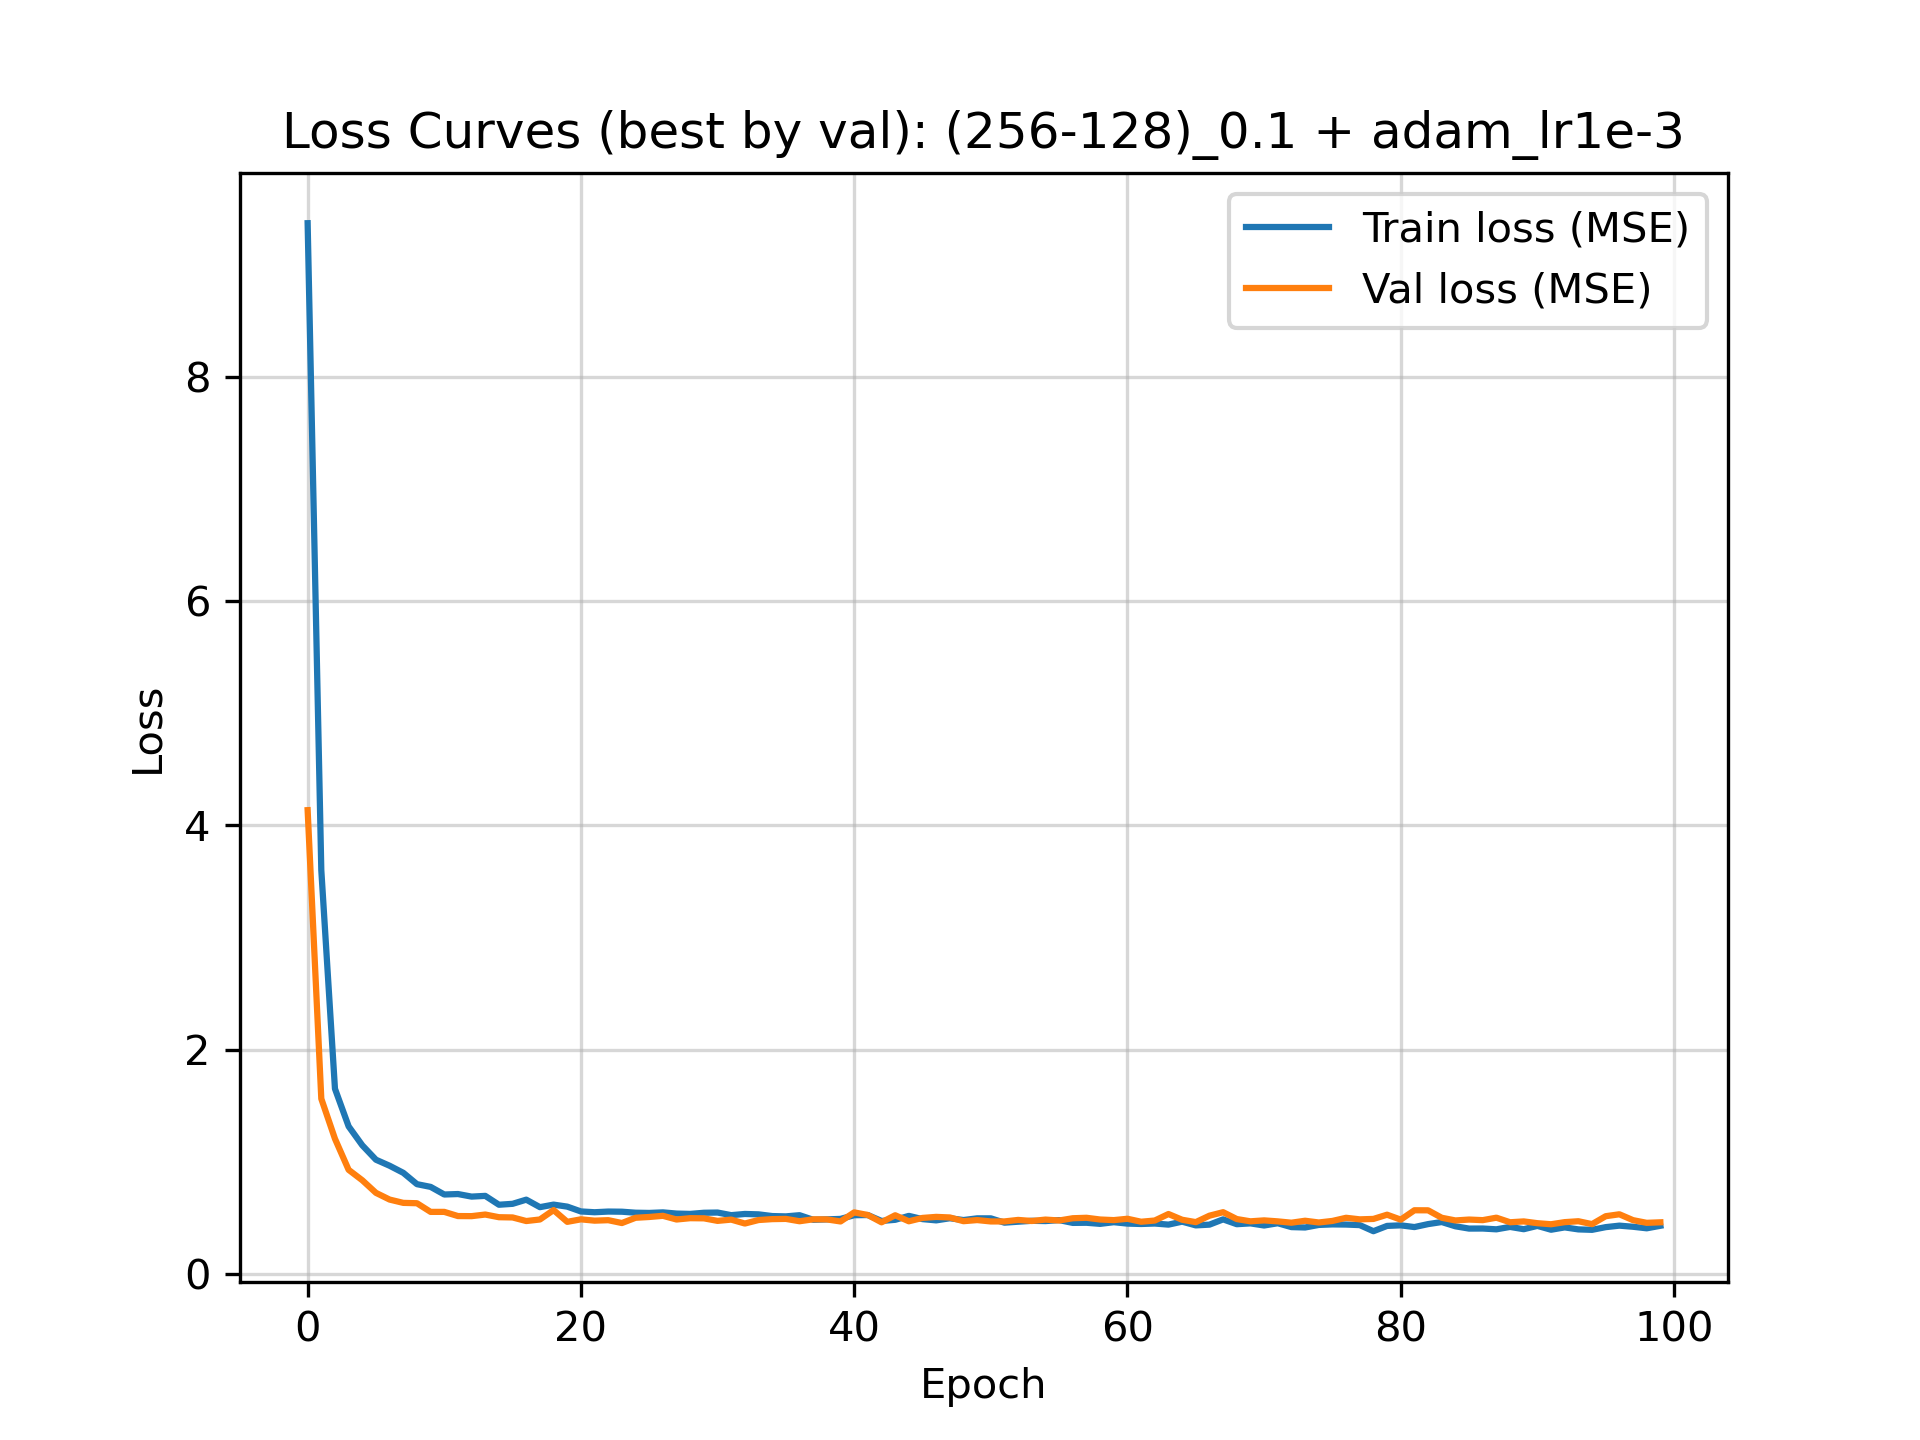
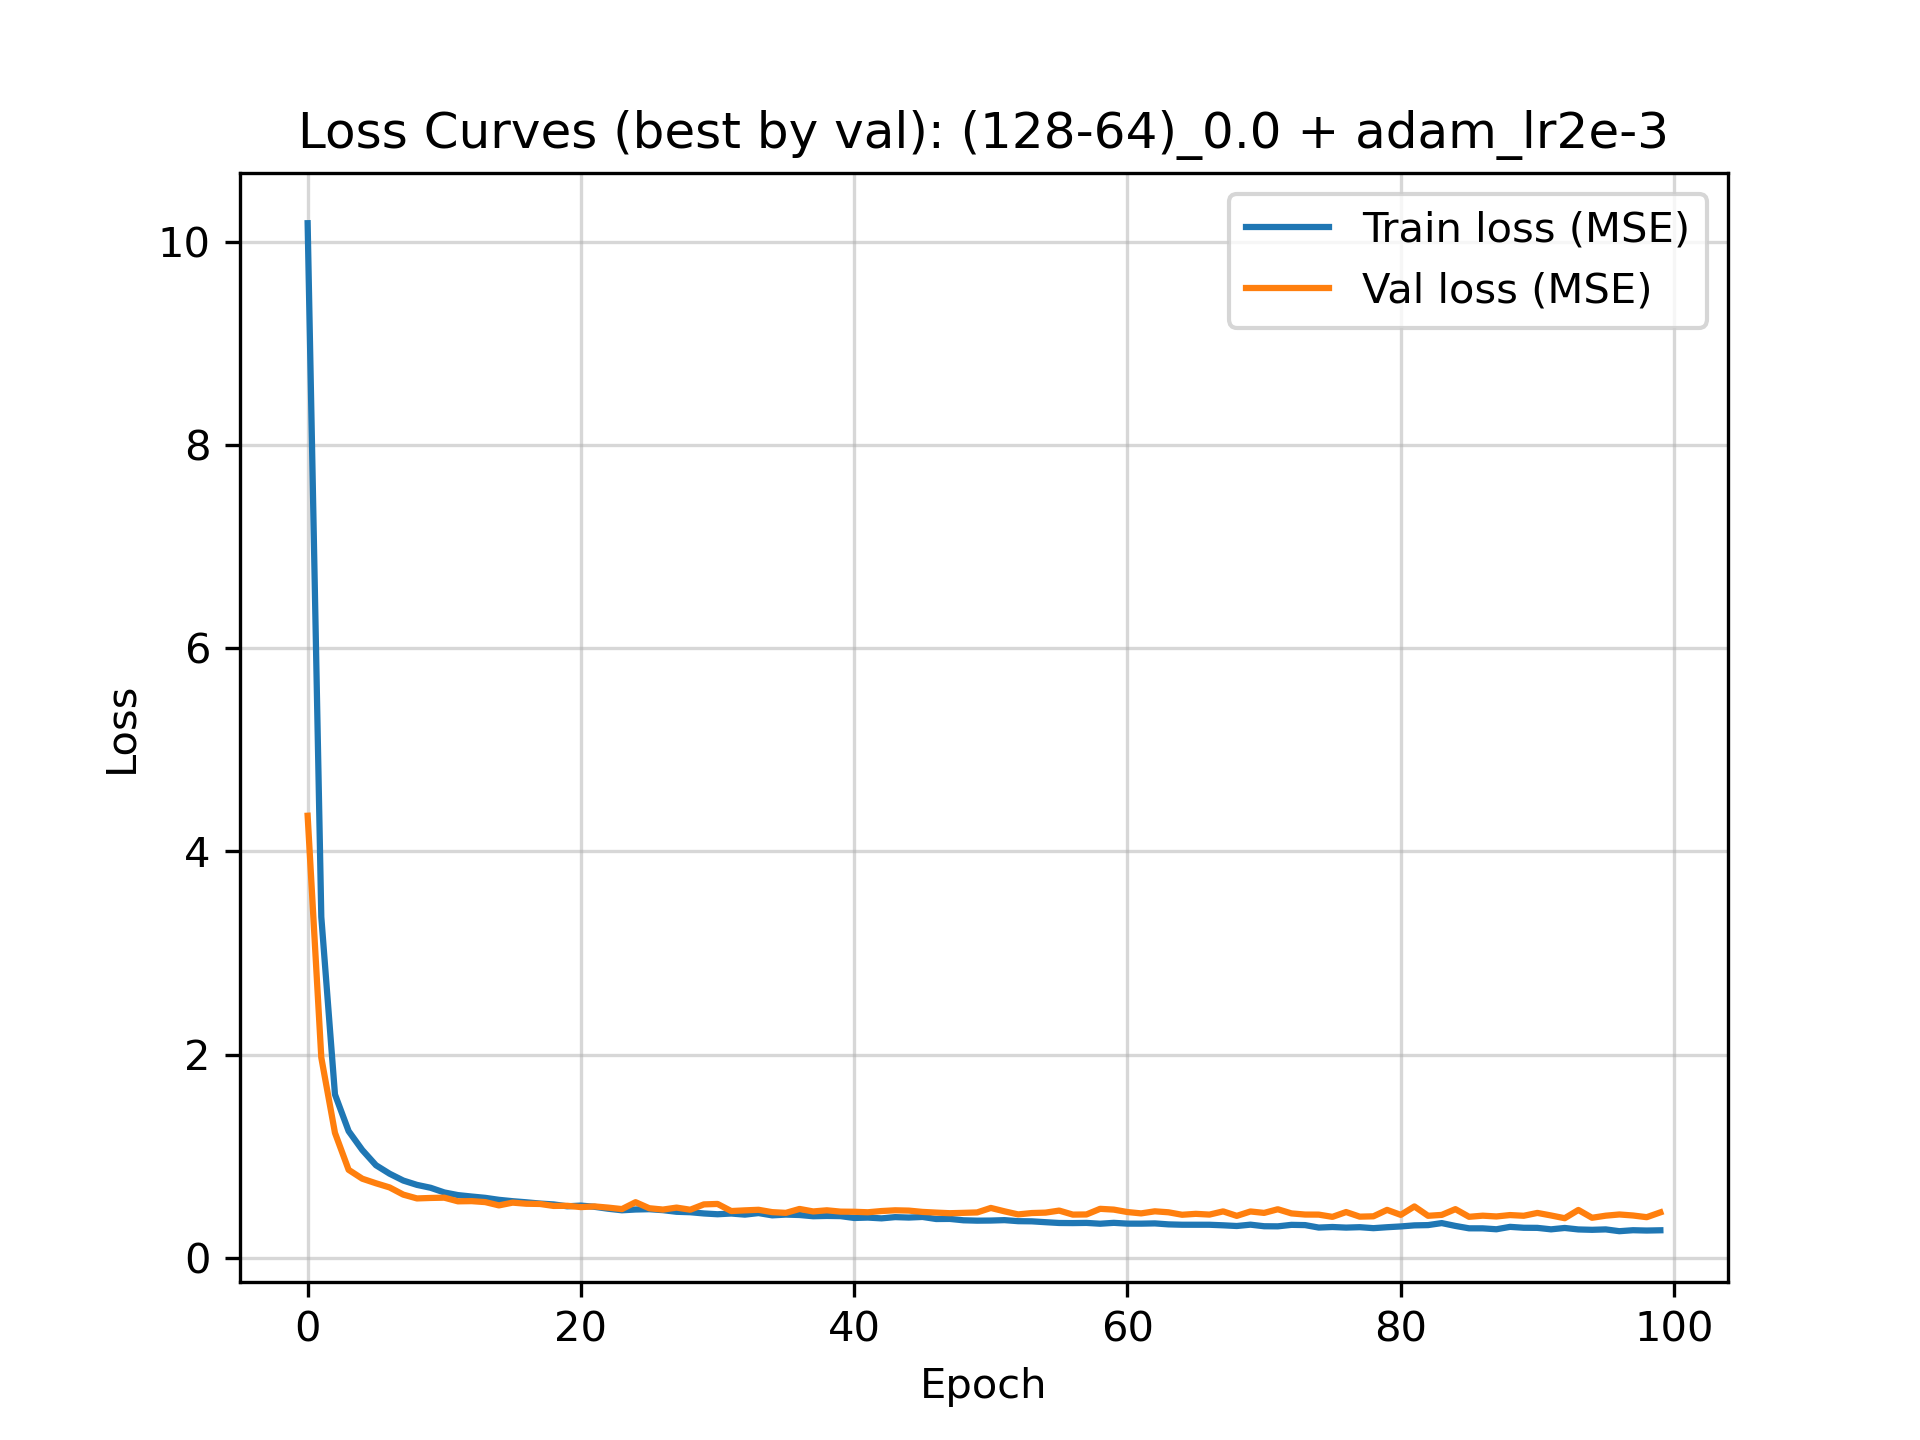
fixed logic -- use best val_test model for fairness

diff --git a/wk5/05_descriptor_scaling.py b/wk5/05_descriptor_scaling.py
@@ -154,6 +154,12 @@ print(f'Best test RMSE: {test_rmse:.3f}')
 #####
 
 model_configs = [
+    ('(32-16)_0.0', (32, 16), 0.0),
+    ('(64-32)_0.0', (64, 32), 0.0),
+    ('(128-64)_0.0', (128, 64), 0.0),
+    ('(64-32-16)_0.0', (64, 32, 16), 0.0),
+    ('(256-128)_0.0', (256, 128), 0.0),
+    ('(64-32-16-8)_0.0', (64, 32, 16, 8), 0.0),
     ('(32-16)_0.1', (32, 16), 0.1),
     ('(64-32)_0.1', (64, 32), 0.1),
     ('(128-64)_0.1', (128, 64), 0.1),
@@ -184,33 +190,35 @@ for model_name, hidden, drop in model_configs:
         model = MLPRegressor(n_features=n_features, hidden_sizes=hidden, dropout_p=drop)
         optimizer = torch.optim.Adam(model.parameters(), **opt_params)
         train_curve, val_curve, best_state, best_val = train_model(model, train_loader, val_loader, loss_func, optimizer, num_epochs)
-        # Store results in a dictionary with all params
+        test_rmse = evaluate_rmse(model, test_loader, loss_func)
+
         results[(model_name, opt_name)] = {
             'hidden': hidden,
             'dropout': drop,
-            'opt': opt_params,
+            'lr': opt_params['lr'],
+            'weight_decay': opt_params['weight_decay'],
             'train_curve': train_curve,
             'val_curve': val_curve,
-            'best_val': best_val,
-            'best_state': best_state}
-best_rmse = float('inf')
-best_by_rmse = None
-for key, rec in results.items():
-    model_name, opt_name = key
-    model = MLPRegressor(n_features=n_features, hidden_sizes=rec['hidden'], dropout_p=rec['dropout'])
-    model.load_state_dict(rec['best_state'])
-    rmse = evaluate_rmse(model, test_loader, loss_func)
-    rec['test_rmse'] = rmse
-    if rmse < best_rmse:
-        best_rmse = rmse
-        best_by_rmse = key
-print(f'Best RMSE config: {best_by_rmse}\nRMSE: {best_rmse:.3f}')
+            'best_val_mse': best_val,
+            'best_state': best_state,
+            'test_rmse': test_rmse}
 
 #####
 
-# Save best RMSE config train/val curves
-train_curve = results[best_by_rmse]['train_curve']
-val_curve   = results[best_by_rmse]['val_curve']
+# Save best val config and evaluate RMSE
+best_by_val = min(results, key=lambda k: results[k]['best_val_mse'])
+
+# Rebuild best model
+best_model_obj = MLPRegressor(n_features=n_features, hidden_sizes=results[best_by_val]['hidden'], dropout_p=results[best_by_val]['dropout'])
+best_model_obj.load_state_dict(results[best_by_val]['best_state'])
+
+# Find and print best model's RMSE
+rmse_for_best_val = evaluate_rmse(best_model_obj, test_loader, loss_func)
+print(f'Best config: {best_by_val}\nRMSE: {rmse_for_best_val:.3f}')
+
+# Save best val config train/val curves
+train_curve = results[best_by_val]['train_curve']
+val_curve   = results[best_by_val]['val_curve']
 
 # Plot and save visualization (carryover from 03_hyperparameter_sweep.py)
 plt.figure()
@@ -218,8 +226,23 @@ plt.plot(train_curve, label='Train loss (MSE)')
 plt.plot(val_curve, label='Val loss (MSE)')
 plt.xlabel('Epoch')
 plt.ylabel('Loss')
-plt.title(f'Loss Curves (best by val): {best_by_rmse[0]} + {best_by_rmse[1]}')
+plt.title(f'Loss Curves (best by val): {best_by_val[0]} + {best_by_val[1]}')
 plt.legend()
 plt.grid(alpha = 0.5)
 plt.savefig('wk5/05_mlp_scaled_train_val_curve', dpi=300)
 plt.close()
+
+# Save full results table
+rows = []
+for (mname, oname), rec in results.items():
+    rows.append({
+        'model': mname,
+        'optimizer': oname,
+        'hidden': str(rec['hidden']),
+        'dropout': rec['dropout'],
+        'lr': rec['lr'],
+        'weight_decay': rec['weight_decay'],
+        'best_val_mse': rec['best_val_mse'],
+        'test_rmse': rec['test_rmse']})
+results_df = pd.DataFrame(rows).sort_values(['best_val_mse', 'test_rmse'])
+results_df.to_csv('wk5/05_scaled_mlp_hyperparam_sweep_results.csv', index=False)
